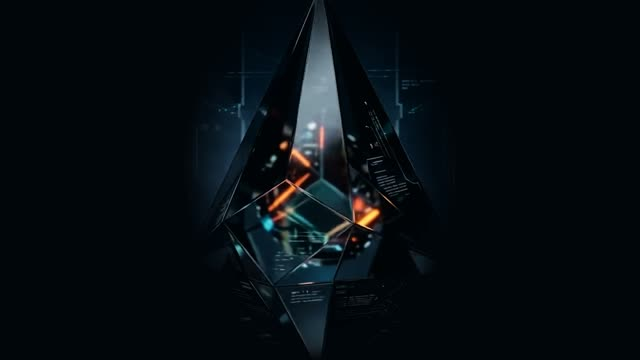
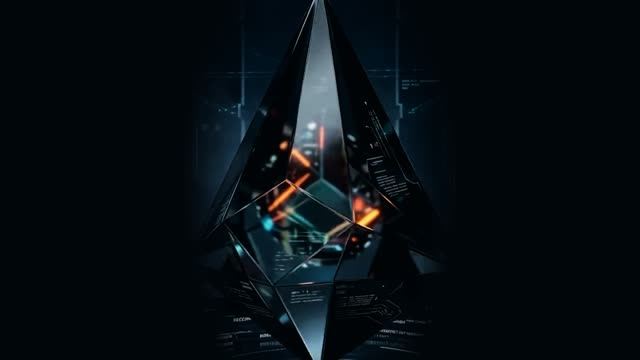
Fix gateway cutoff; opened reactor now replaces the hub core
- Re-baked reactor.webm/mp4 with a taller alpha matte (ry 490) so the diamond's
  top/bottom tips are no longer feathered/clipped in the gateway.
- Reworked to ONE reactor element: gateway shows the closed diamond (idle loop),
  and on unlock the SAME video plays the morph once and PAUSES on the opened
  sphere, held as the prominent hub CORE. Removed the dim #reactorBg backdrop and
  the small-closed-diamond core.
- Old SVG rings / lens / coreGlow hidden online so the opened reactor is the core.
- Gateway reactor sized to fit (62vmin); ring still encircles it.

Verified headless: idle bounded (<2.7), core holds opened frame (ct 6.03 paused),
rings hidden, zero errors.

diff --git a/index.html b/index.html
@@ -324,28 +324,22 @@ body.mobile #ticker{display:none}
   box-shadow:0 24px 66px rgba(0,0,0,.55),inset 0 1px 0 rgba(255,255,255,.08)}
 #term{backdrop-filter:blur(18px) saturate(1.3);-webkit-backdrop-filter:blur(18px) saturate(1.3)}
 .hud{text-shadow:0 0 12px rgba(2,5,10,.7);will-change:transform}
-/* ============ DIAMOND REACTOR — gateway core + paused-open backdrop ============ */
-/* CORE: the diamond. Gateway centerpiece -> shrinks into #corewrap on unlock;
-   JS loops the seamless ping-pong idle [0,2.8s] forever (per-frame precise). */
-#reactorStage{position:fixed;left:50%;top:50%;height:78vmin;aspect-ratio:16/9;
+/* ============ DIAMOND REACTOR — gateway + opened core ============ */
+/* ONE video: gateway shows the closed diamond (idle loop); on unlock it plays the
+   morph ONCE and holds the OPENED reactor as the hub's core (replaces the old core). */
+#reactorStage{position:fixed;left:50%;top:50%;height:62vmin;aspect-ratio:16/9;
   transform:translate(-50%,-50%);transform-origin:50% 50%;z-index:113;pointer-events:none;
   transition:transform 1.2s cubic-bezier(.16,.84,.28,1),filter 1.2s ease;will-change:transform;
-  filter:drop-shadow(0 0 54px var(--mag-glow)) drop-shadow(0 0 120px var(--acc-glow))}
+  filter:drop-shadow(0 0 46px var(--mag-glow)) drop-shadow(0 0 100px var(--acc-glow))}
 #reactor{width:100%;height:100%;object-fit:contain;display:block}
-body.online #reactorStage{transform:translate(-50%,-46%) scale(.5);
-  filter:drop-shadow(0 0 20px var(--acc-glow)) drop-shadow(0 0 46px var(--mag-glow))}
-body.mobile.online #reactorStage{opacity:0;pointer-events:none;transition:opacity .8s ease}
-/* BACKDROP: plays the morph once on unlock, PAUSES on the open sphere frame,
-   dim + behind everything (z-1) so glassy panels reveal it through blur. */
-#reactorBg{position:fixed;inset:0;width:100vw;height:100vh;object-fit:cover;z-index:-1;
-  pointer-events:none;opacity:0;transition:opacity 1.4s ease;will-change:opacity;filter:saturate(1.1) brightness(.92)}
-body.online #reactorBg{opacity:.34}
-/* Safari / no-VP9-alpha: mask both video els into an ellipse + screen out the dark */
-#reactorStage.fallback #reactor,#reactorBg.fallback{mix-blend-mode:screen}
-#reactorStage.fallback #reactor{-webkit-mask-image:radial-gradient(ellipse 31% 47% at 50% 47%,#000 58%,transparent 100%);
-          mask-image:radial-gradient(ellipse 31% 47% at 50% 47%,#000 58%,transparent 100%)}
-#reactorBg.fallback{-webkit-mask-image:radial-gradient(ellipse 46% 62% at 50% 50%,#000 54%,transparent 100%);
-          mask-image:radial-gradient(ellipse 46% 62% at 50% 50%,#000 54%,transparent 100%)}
+/* ONLINE: the opened reactor stays as the prominent core (near-full size, centered) */
+body.online #reactorStage{top:53%;transform:translate(-50%,-50%) scale(.82);
+  filter:drop-shadow(0 0 30px var(--acc-glow)) drop-shadow(0 0 70px var(--mag-glow))}
+body.mobile.online #reactorStage{top:230px;transform:translate(-50%,-50%) scale(.6)}
+/* Safari / no-VP9-alpha: mask the raw MP4 into an ellipse + screen out the dark */
+#reactorStage.fallback #reactor{mix-blend-mode:screen;
+  -webkit-mask-image:radial-gradient(ellipse 33% 62% at 50% 50%,#000 60%,transparent 100%);
+          mask-image:radial-gradient(ellipse 33% 62% at 50% 50%,#000 60%,transparent 100%)}
 /* gateway veil — hides the hub (everything sits below z100) until unlock */
 #gwveil{position:fixed;inset:0;z-index:100;transition:opacity 1.2s ease;will-change:opacity;
   background:radial-gradient(120% 92% at 50% 46%,rgba(3,7,14,.42) 0%,rgba(1,3,7,.93) 60%,#010306 100%);
@@ -379,13 +373,12 @@ body.online #gwui{opacity:0;pointer-events:none}
 /* while locked: freeze hub scroll/interaction under the veil */
 body.locked{overflow:hidden}
 body.locked #space,body.locked #cmdbar,body.locked #holo,body.locked #ticker,body.locked #term{pointer-events:none}
-/* online: soften old lens, keep rings; hub projects out of the opened core */
-body.online #lens{opacity:0;transition:opacity .8s ease}
-body.online .rwrap{opacity:.6;transition:opacity .8s ease}
+/* online: the opened reactor REPLACES the old core — hide the SVG rings/lens/glow */
+body.online #lens,body.online .rwrap,body.online #coreGlow{opacity:0;transition:opacity .9s ease}
 body.online #space{animation:hubproject 1.1s cubic-bezier(.16,.84,.28,1) both}
 @keyframes hubproject{from{opacity:0;transform:scale(.93)}to{opacity:1;transform:none}}
 @media (prefers-reduced-motion:reduce){
-  #reactorStage,#reactorBg,#gwveil,#gwui,#gwtitle{transition:opacity .3s ease}
+  #reactorStage,#gwveil,#gwui,#gwtitle{transition:opacity .3s ease}
   body.online #reactorStage{transition:none}
   body.online #space{animation:none}
 }
@@ -393,11 +386,6 @@ body.online #space{animation:hubproject 1.1s cubic-bezier(.16,.84,.28,1) both}
 </head>
 <body class="locked">
 <!-- ===== DIAMOND REACTOR GATEWAY ===== -->
-<!-- paused-open backdrop (plays the morph once on unlock, then holds the open sphere) -->
-<video id="reactorBg" muted playsinline preload="auto" disablepictureinpicture aria-hidden="true" tabindex="-1">
-  <source src="./reactor.webm" type="video/webm">
-  <source src="./reactor.mp4" type="video/mp4">
-</video>
 <div id="gwveil"></div>
 <div id="reactorStage">
   <video id="reactor" muted playsinline preload="auto" disablepictureinpicture aria-hidden="true" tabindex="-1" poster="./reactor-poster.jpg">
@@ -1429,29 +1417,23 @@ document.addEventListener('DOMContentLoaded', () => {
 </script>
 <script>
 /* ============ DIAMOND REACTOR GATEWAY — state machine ============
-   State 1 (Idle):  CORE video loops the seamless ping-pong head [0, IDLE_END]
-                    using requestVideoFrameCallback (per-frame; NOT timeupdate,
-                    which fires ~4x/s and overshoots the loop point -> snap).
+   State 1 (Idle):  ONE reactor video loops the seamless ping-pong head [0,IDLE_END]
+                    (setInterval backstop + rVFC; NOT timeupdate).
    State 2 (Hold):  click-and-hold fills the SVG ring encircling the reactor.
-   State 3 (Open):  BACKDROP video plays the morph [IDLE_END, MORPH_END] ONCE,
-                    then video.pause() holds the open sphere permanently; the hub
-                    fades/scales in projecting out of the opened core.
-   Plus: cross-page session state, autoplay guard, dead-video failsafe, hide-pause. */
+   State 3 (Open):  the SAME video plays the morph [MORPH_START, MORPH_END] ONCE and
+                    video.pause()s on the OPENED frame -> it stays as the hub's core
+                    (the old SVG/lens core is hidden). Hub fades/scales in from it. */
 (function(){
   var body  = document.body,
       stage = document.getElementById('reactorStage'),
       core  = document.getElementById('reactor'),
-      bg    = document.getElementById('reactorBg'),
       gwui  = document.getElementById('gwui'),
       prg   = document.getElementById('gwPrg');
 
-  /* re-baked file: ping-pong idle head [0,2.8], then the morph->open tail.
-     IDLE_END sits 0.1s inside the ping-pong so any small overshoot still lands
-     on a seamless frame; MORPH_START is the true start of the morph. */
-  var IDLE_END = 2.7, MORPH_START = 2.8, MORPH_END = 6.0, RING = 295.3;   /* pause 0.33s before the 6.33s end so the frame watcher can't miss it into a reset */
+  var IDLE_END = 2.7, MORPH_START = 2.8, MORPH_END = 6.0, RING = 295.3;
   var reduce   = matchMedia('(prefers-reduced-motion: reduce)').matches;
   var hasVFC   = 'requestVideoFrameCallback' in HTMLVideoElement.prototype;
-  var unlocked = false;
+  var unlocked = false, idleIv = null;
 
   if (!stage || !core || !gwui){ body.classList.remove('locked'); body.classList.add('online'); return; }
 
@@ -1463,54 +1445,44 @@ document.addEventListener('DOMContentLoaded', () => {
   }
   function play(v){ if (!v) return; var p = v.play(); if (p && p.catch) p.catch(function(){}); }
 
-  /* Safari / no-VP9-alpha -> CSS-masked MP4 path on BOTH video elements */
-  if (!core.canPlayType('video/webm; codecs="vp9"')){ stage.classList.add('fallback'); if (bg) bg.classList.add('fallback'); }
+  if (!core.canPlayType('video/webm; codecs="vp9"')) stage.classList.add('fallback');
 
-  /* ---- STATE 1: seamless idle loop on the CORE (runs forever, gateway + online) ----
-     Two clamps: requestVideoFrameCallback for per-frame precision when the tab is
-     compositing, AND a setInterval backstop that survives rAF/rVFC starvation
-     during WebGL init or when backgrounded — so the loop can never overshoot into
-     the morph and snap. */
-  function clampIdle(){ if (core.currentTime >= IDLE_END || core.currentTime < 0){ try { core.currentTime = 0; } catch(e){} } }
-  core.addEventListener('loadeddata', function(){ try { core.currentTime = 0; } catch(e){} play(core); });
+  /* ---- STATE 1: seamless idle loop while LOCKED (setInterval backstop + rVFC).
+     Both clamps bail once unlocked so the morph can play out to the open frame. ---- */
+  function clampIdle(){ if (unlocked) return; if (core.currentTime >= IDLE_END || core.currentTime < 0){ try { core.currentTime = 0; } catch(e){} } }
+  core.addEventListener('loadeddata', function(){ if (!unlocked){ try { core.currentTime = 0; } catch(e){} play(core); } });
   play(core);
-  if (hasVFC){ var vloop = function(){ clampIdle(); core.requestVideoFrameCallback(vloop); }; core.requestVideoFrameCallback(vloop); }
-  setInterval(clampIdle, 45);
+  if (hasVFC){ var vloop = function(){ if (unlocked) return; clampIdle(); core.requestVideoFrameCallback(vloop); }; core.requestVideoFrameCallback(vloop); }
+  idleIv = setInterval(clampIdle, 45);
 
-  /* ---- STATE 3: unlock -> BACKDROP plays the morph once, pauses on the open frame ---- */
-  function pinBgOpen(){ try { bg.currentTime = MORPH_END - 0.05; } catch(e){} bg.pause(); }
+  /* ---- STATE 3: unlock -> the SAME reactor plays the morph once and HOLDS the opened frame ---- */
+  function pinOpen(){ try { core.pause(); } catch(e){} }
   function goOnline(instant){
     if (unlocked) return; unlocked = true;
     try { sessionStorage.setItem('nn-gw','1'); } catch(e){}
+    if (idleIv){ clearInterval(idleIv); idleIv = null; }
     hubInert(false);
     body.classList.remove('locked');
 
     if (instant || reduce){
+      /* return visit: jump straight to the opened frame (forward seek, then hold) */
+      var showOpen = function(){ try { core.currentTime = MORPH_END - 0.02; } catch(e){} core.pause(); };
+      if (core.readyState >= 1) showOpen(); else core.addEventListener('loadedmetadata', showOpen, { once:true });
       body.classList.add('online');
-      if (bg){ if (bg.readyState >= 1) pinBgOpen(); else bg.addEventListener('loadedmetadata', pinBgOpen, { once:true }); }
       return;
     }
-    if (bg){
-      bg.loop = false;
-      var pinned = false;
-      /* pause exactly where playback is (>= MORPH_END, already a fully-open sphere frame).
-         Do NOT seek afterwards: a backward seek near the end resets currentTime to 0 in
-         some decoders. MORPH_END keeps a 0.33s margin before the 6.33s end so the 30ms
-         watcher always catches it before a natural 'ended' (which would reset to 0). */
-      var pinOpen = function(){ if (pinned) return; pinned = true; try { bg.pause(); } catch(e){} };
-      var bgWatch = setInterval(function(){ if (pinned){ clearInterval(bgWatch); return; } if (bg.currentTime >= MORPH_END){ pinOpen(); clearInterval(bgWatch); } }, 30);
-      bg.addEventListener('ended', pinOpen, { once:true });   /* backstop only */
-      /* try to start right at the morph; if the seek lands play from there, else play through from the idle head */
-      var began = false, begin = function(){ if (began) return; began = true; play(bg); };
-      bg.addEventListener('seeked', begin, { once:true });
-      try { bg.currentTime = MORPH_START; } catch(e){}
-      setTimeout(begin, 250);
-    }
-    /* reveal the hub promptly; the backdrop keeps blooming to the open frame behind it */
-    setTimeout(function(){ body.classList.add('online'); }, 550);
+    /* play the morph once, pause ON the opened frame. No backward seek (resets to 0 in
+       some decoders); MORPH_END keeps 0.33s margin before the 6.33s end so the 30ms
+       watcher catches it before a natural 'ended'. */
+    try { core.currentTime = MORPH_START; } catch(e){}
+    play(core);
+    var pinned = false;
+    var iv = setInterval(function(){ if (pinned){ clearInterval(iv); return; } if (core.currentTime >= MORPH_END){ pinned = true; pinOpen(); clearInterval(iv); } }, 30);
+    core.addEventListener('ended', function(){ pinOpen(); }, { once:true });   /* backstop */
+    setTimeout(function(){ body.classList.add('online'); }, 650);              /* reveal the hub as it opens */
   }
 
-  /* ---- cross-page: already unlocked this session -> straight to the open state ---- */
+  /* ---- cross-page: already unlocked this session -> straight to the opened core ---- */
   var already = false; try { already = sessionStorage.getItem('nn-gw') === '1'; } catch(e){}
   if (already){ goOnline(true); } else { hubInert(true); }
 
@@ -1545,12 +1517,9 @@ document.addEventListener('DOMContentLoaded', () => {
   core.addEventListener('error', failOpen);
   var srcs = core.querySelectorAll('source'); if (srcs.length) srcs[srcs.length - 1].addEventListener('error', failOpen);
 
-  /* ---- battery / memory guard (don't resume the paused-open backdrop) ---- */
-  document.addEventListener('visibilitychange', function(){
-    if (document.hidden){ try { core.pause(); if (bg) bg.pause(); } catch(e){} }
-    else { play(core); }
-  });
-  window.addEventListener('pagehide', function(){ try { core.pause(); if (bg) bg.pause(); } catch(e){} });
+  /* ---- battery guard: only resume playback while LOCKED (online = intentionally paused open) ---- */
+  document.addEventListener('visibilitychange', function(){ if (document.hidden){ try { core.pause(); } catch(e){} } else if (!unlocked){ play(core); } });
+  window.addEventListener('pagehide', function(){ try { core.pause(); } catch(e){} });
 })();
 </script>
 <script type="module" src="./gl/nexus-gl.js"></script>